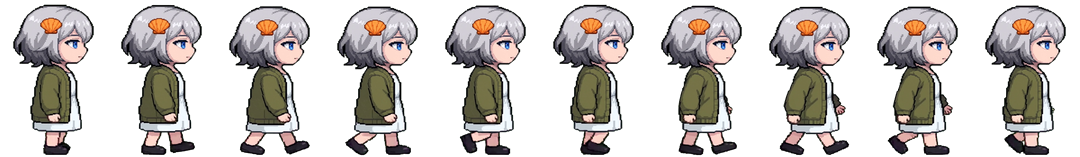
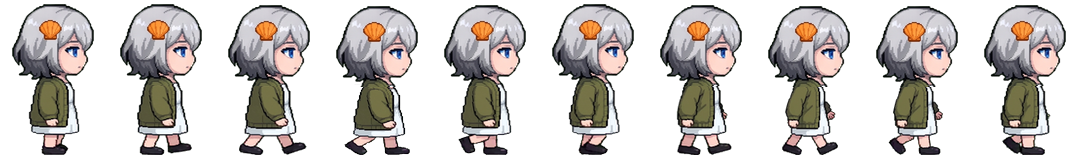
옆모습 영상 걷기: 머리는 정지 그림으로 바꾸고 몸은 정지 그림 몸 길이·폭에 맞춤
영상이 머리를 작게, 몸을 길게 다시 그려서 정지와 번갈아 나오면 머리 크기가 튀던 문제.
영상의 몸 오르내림은 유지, 폭은 상체만으로 재서 다리가 벌어진 칸에서도 몸이 홀쭉해지지 않음.

Claude-Session: https://claude.ai/code/session_01MBgVgKbFxkEXND4zuEcjdV

diff --git a/tools/sprite_cleanup/video_walk.py b/tools/sprite_cleanup/video_walk.py
@@ -14,7 +14,7 @@ import numpy as np
 from PIL import Image
 
 sys.path.insert(0, str(Path(__file__).parent))
-from clean_chroma import head_width, hq_resize, hq_resize_xy, key_green, stature  # noqa: E402
+from clean_chroma import chin_rows, head_width, hq_resize, hq_resize_xy, key_green, stature  # noqa: E402
 
 
 def main(out_dir, name, idle_name, video, start, period, count, fps=8, mirror_as=None):
@@ -63,6 +63,33 @@ def main(out_dir, name, idle_name, video, start, period, count, fps=8, mirror_as
         cell.alpha_composite(f, (dx, dy)) if dx >= 0 and dy >= 0 else cell.paste(f, (dx, dy), f)
         cells.append(cell)
         sheet.alpha_composite(cell, (i * cw, 0))
+    # 머리는 정지 그림으로: 영상은 머리를 작게, 몸을 길게 다시 그려서 정지와 번갈아 나오면 머리 크기가 튐.
+    # 칸마다 영상의 턱 아래 몸을 정지 그림의 몸 길이에 맞춰 늘이고, 그 위에 정지 그림의 머리를 붙임 (영상의 오르내림은 유지)
+    _, s_chin, _ = chin_rows(stand)
+    t0 = None
+    sheet = Image.new("RGBA", (cw * count, ch), (0, 0, 0, 0))
+    fixed = []
+    for i, cell in enumerate(cells):
+        top, v_chin, v_bot = chin_rows(cell)
+        t0 = top if t0 is None else t0
+        dy = int(top - t0)                                   # 영상의 몸 오르내림
+        body = cell.crop((0, v_chin, cw, v_bot + 1))
+        bh = s_bot + 1 - (s_chin + dy)
+        # 폭은 상체(카디건)만으로 잼: 다리가 벌어진 칸에서 몸이 홀쭉해지지 않게
+        bb = np.array(body)
+        bx = np.nonzero((bb[: int(bb.shape[0] * 0.55), :, 3] > 128).any(0))[0]
+        sx = np.nonzero((sa[s_chin + 2:s_chin + 2 + int((s_bot - s_chin) * 0.55), :, 3] > 128).any(0))[0]
+        kx = (sx[-1] - sx[0] + 1) / (bx[-1] - bx[0] + 1)      # 몸 폭도 정지 그림에 맞춤
+        body = hq_resize_xy(body, max(1, round(cw * kx)), bh)
+        bxs = np.nonzero((np.array(body)[: int(bh * 0.55), :, 3] > 128).any(0))[0]
+        ox = int(round((sx[0] + sx[-1]) / 2 - (bxs[0] + bxs[-1]) / 2))
+        out_c = Image.new("RGBA", (cw, ch), (0, 0, 0, 0))
+        out_c.alpha_composite(body, (max(0, ox), s_chin + dy)) if ox >= 0 else out_c.paste(body, (ox, s_chin + dy), body)
+        head = stand.crop((0, 0, cw, s_chin + 3))
+        out_c.alpha_composite(head, (0, dy)) if dy >= 0 else out_c.paste(head, (0, dy), head)
+        fixed.append(out_c)
+        sheet.alpha_composite(out_c, (i * cw, 0))
+    cells = fixed
     sheet.save(out / f"{name}.png")
     meta["animations"][name] = {"frames": count, "cell": [cw, ch], "fps": fps, "loop": True}
     if mirror_as:
